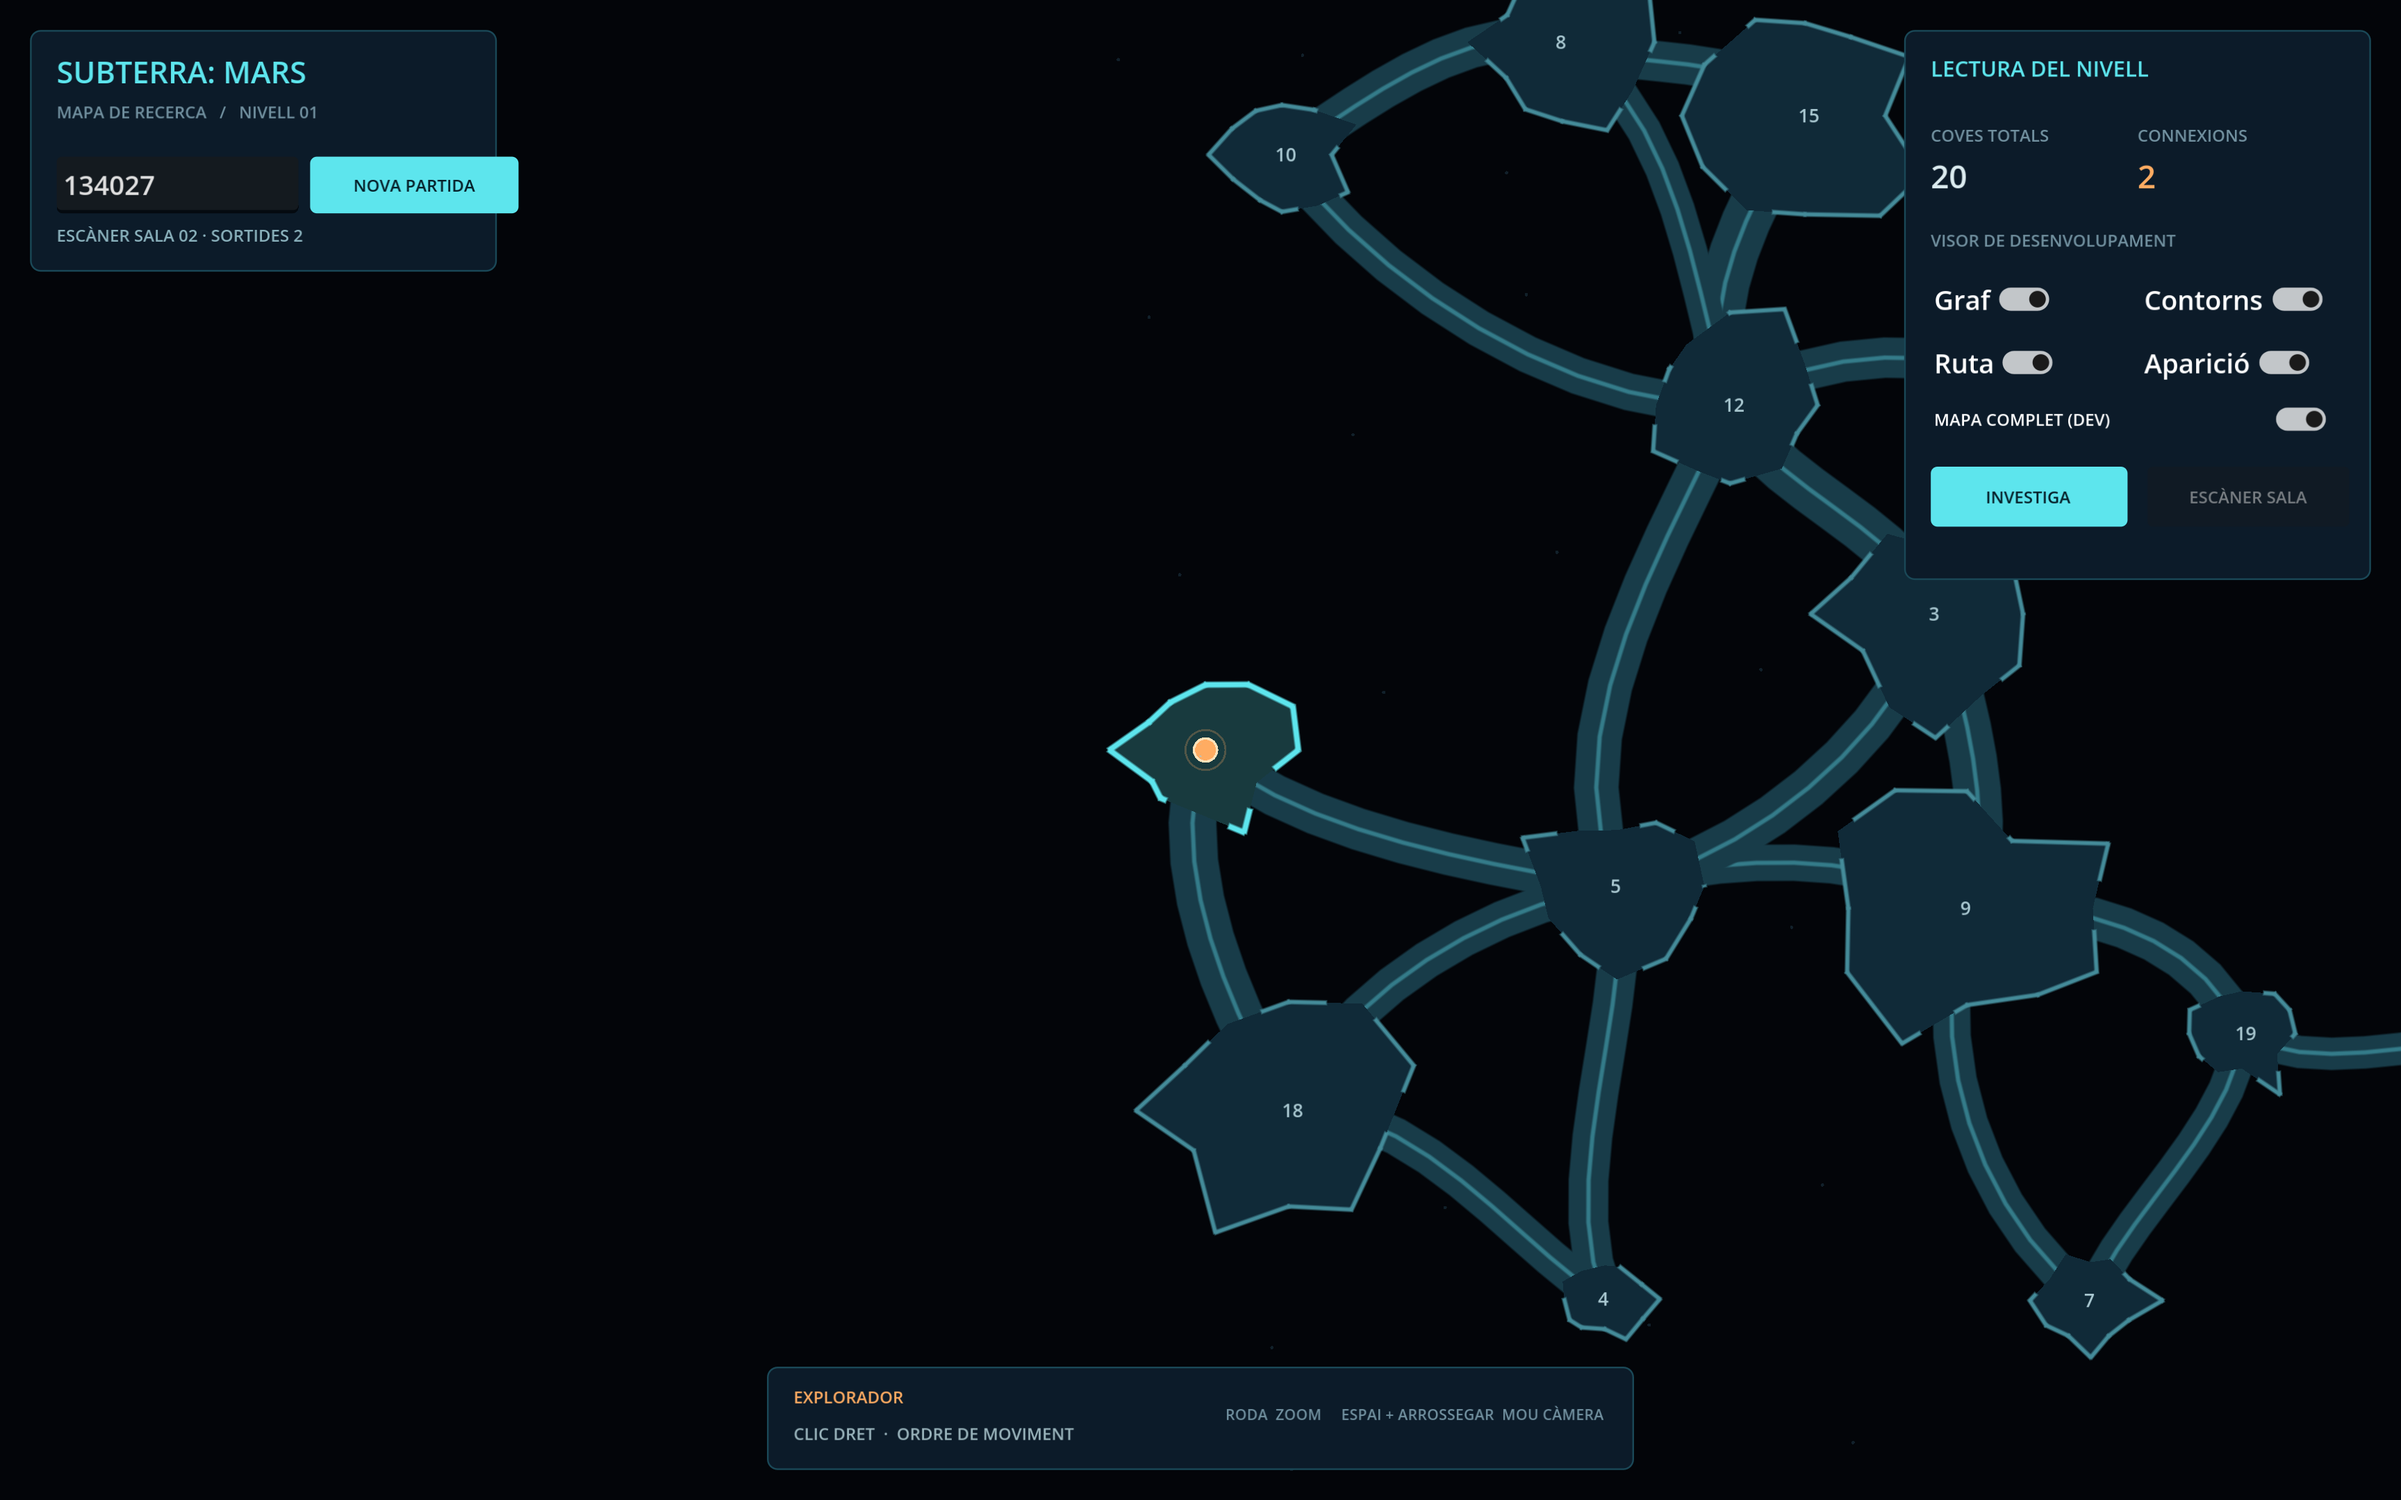
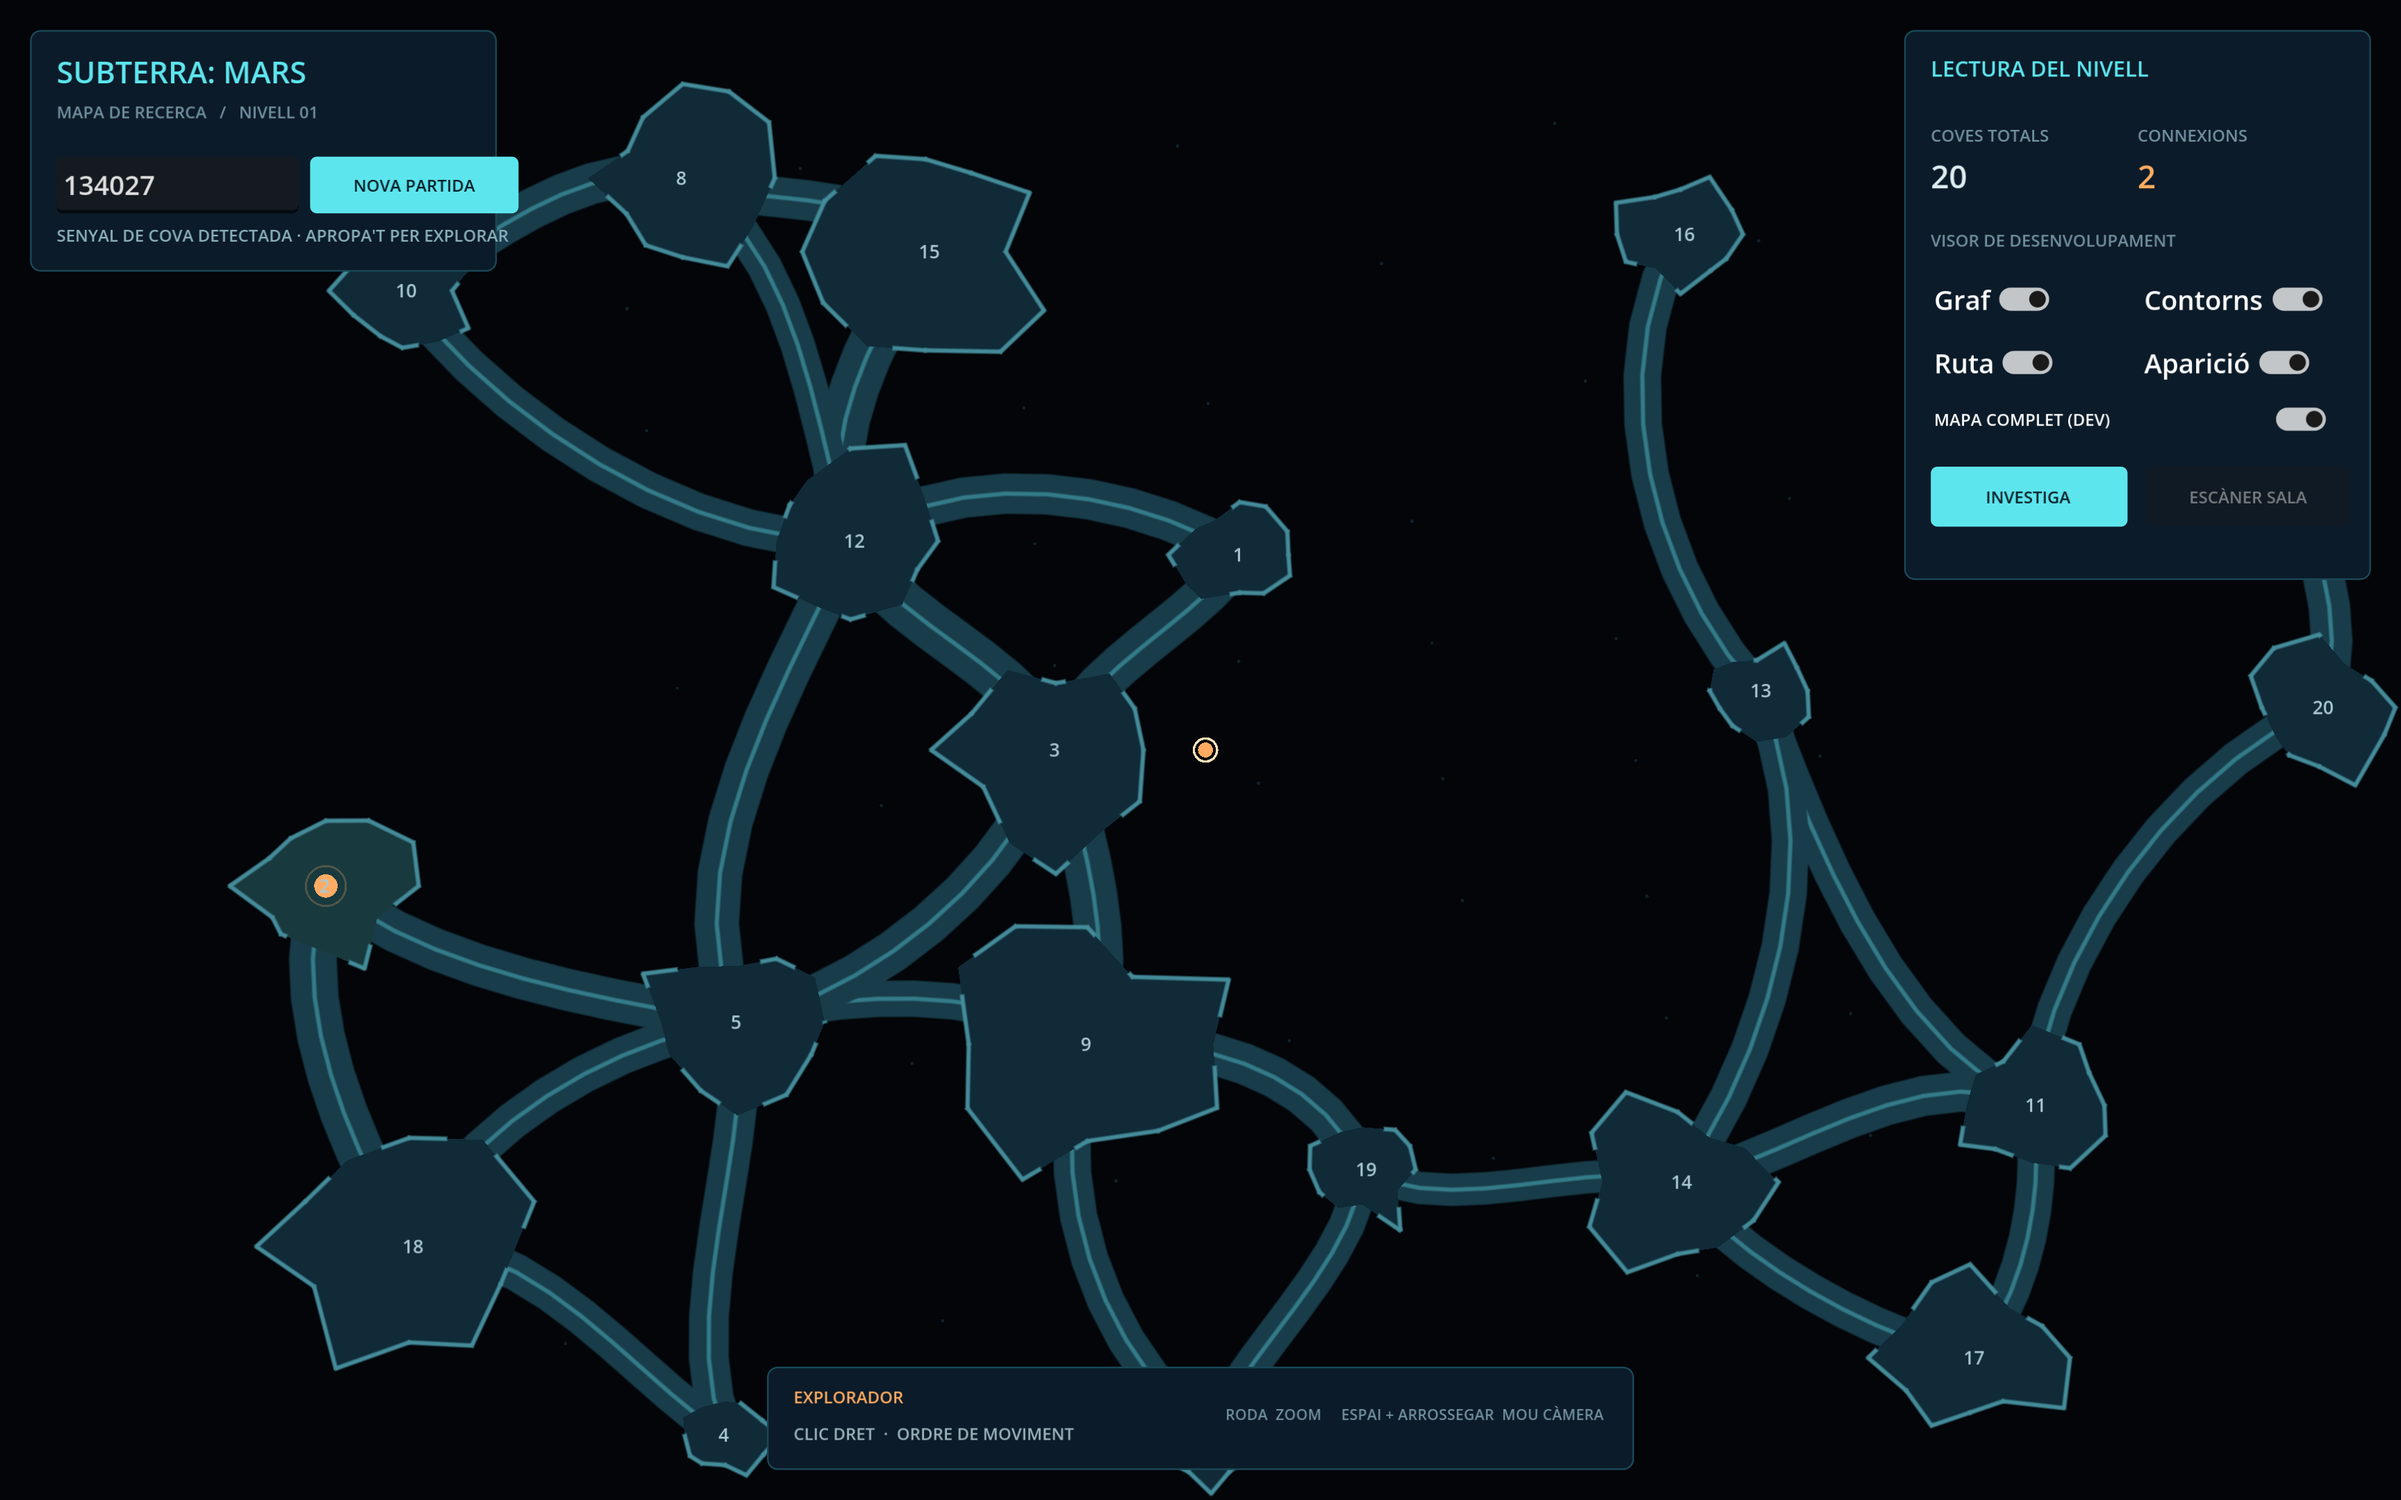
Millora la deteccio i lectura de coves

Changed region(s): [[0.0312, 0.0, 1.0, 0.9926], [0.5, 0.9616, 0.5312, 0.9926]]

diff --git a/docs/ESTAT_PROJECTE.md b/docs/ESTAT_PROJECTE.md
@@ -198,3 +198,7 @@ S'ha retirat el canvi automàtic de vista en travessar una boca. La inspecció e
 ## El jugador ha de canviar de vista abans de sortir de la sala
 
 En mode d'inspecció, la ruta de moviment queda retallada al contorn transitable de la sala seleccionada i cada pas de moviment comprova el límit abans d'actualitzar la posició. Si una ordre intenta travessar una sortida, el jugador s'atura a l'última posició interior i apareix l'avís «SURT D'INSPECCIÓ PER TRAVESSAR LA SORTIDA». Cal prémer «SURT D'INSPECCIÓ» (o Esc) per canviar al mapa; aleshores es pot continuar el moviment pel túnel sense perdre l'estat ni la posició del món. Verificació: `seed_validation.gd` aprovat amb 51/51 llavors, incloent moviment dins la sala, bloqueig del límit, canvi al mapa i moviment posterior. Captura OpenGL revisada a `reports/transicio_mapa_tunel.png`; el personatge roman dins la sala fins al canvi de vista.
+
+## Detecció propera i terra de sala
+
+En acostar-se a menys de 80 unitats del perímetre d'una cova encara no explorada, l'explorador en detecta un senyal aproximat. El marcador es pot seleccionar per obrir-ne la vista local, però no mostra el contorn real ni marca la sala com escanejada; el contorn complet continua reservat a l'escàner. La sala escanejada ara omple el terra sota tota la seva silueta i utilitza soroll i detalls de roca deterministes per llavor, sense el mosaic de rombes. Les galeries locals s'han rebaixat per no tapar la boca de sortida. Verificació: 51/51 llavors, inclosa detecció pròxima, selecció del senyal sense escaneig i distinció entre sala detectada i explorada. Captures OpenGL revisades: `reports/deteccio_cova_proximitat.png` i `reports/mode_analisi_sala.png`.
